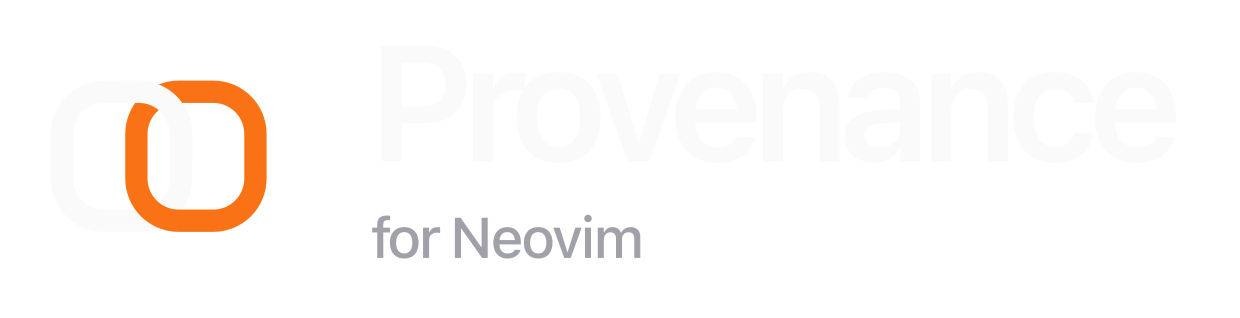
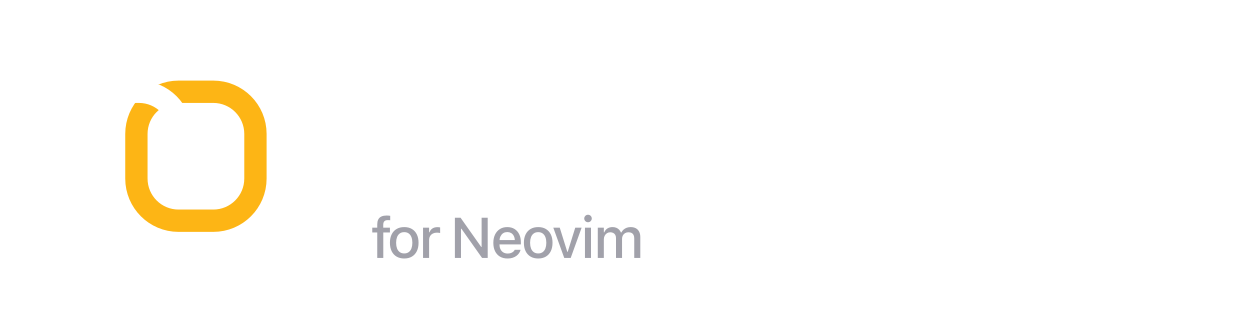
docs(brand): recolor the README lockup to UC Berkeley blue and gold
Follows ProvenanceTools/provenance#41 (issue #36): ink #18181b -> Berkeley
Blue #002676 (white on dark), accent orange -> California Gold #FDB515.

Changed region(s): [[0.0919, 0.2547, 0.2145, 0.7358]]

diff --git a/brand/README.md b/brand/README.md
@@ -13,11 +13,13 @@ these files from it rather than editing them in place.
 
 | Token      | Light surface | Dark surface |
 | ---------- | ------------- | ------------ |
-| Ink / line | `#18181b`     | `#fafafa`    |
-| Accent     | `#EA580C`     | `#F97316`    |
+| Ink / line | `#002676`     | `#FFFFFF`    |
+| Accent     | `#FDB515`     | `#FDB515`    |
 | Subtitle   | `#52525b`     | `#a1a1aa`    |
 
-Same tokens as Provenance; the accent brightens on dark surfaces for contrast.
+Same tokens as Provenance: UC Berkeley's Berkeley Blue and California Gold (the
+monorepo's issue #36 replaced the original `#18181b` ink and `#EA580C` orange accent).
+Gold stays solid on both surfaces; the neutral subtitle grays are unchanged.
 
 ## Source masters
 
